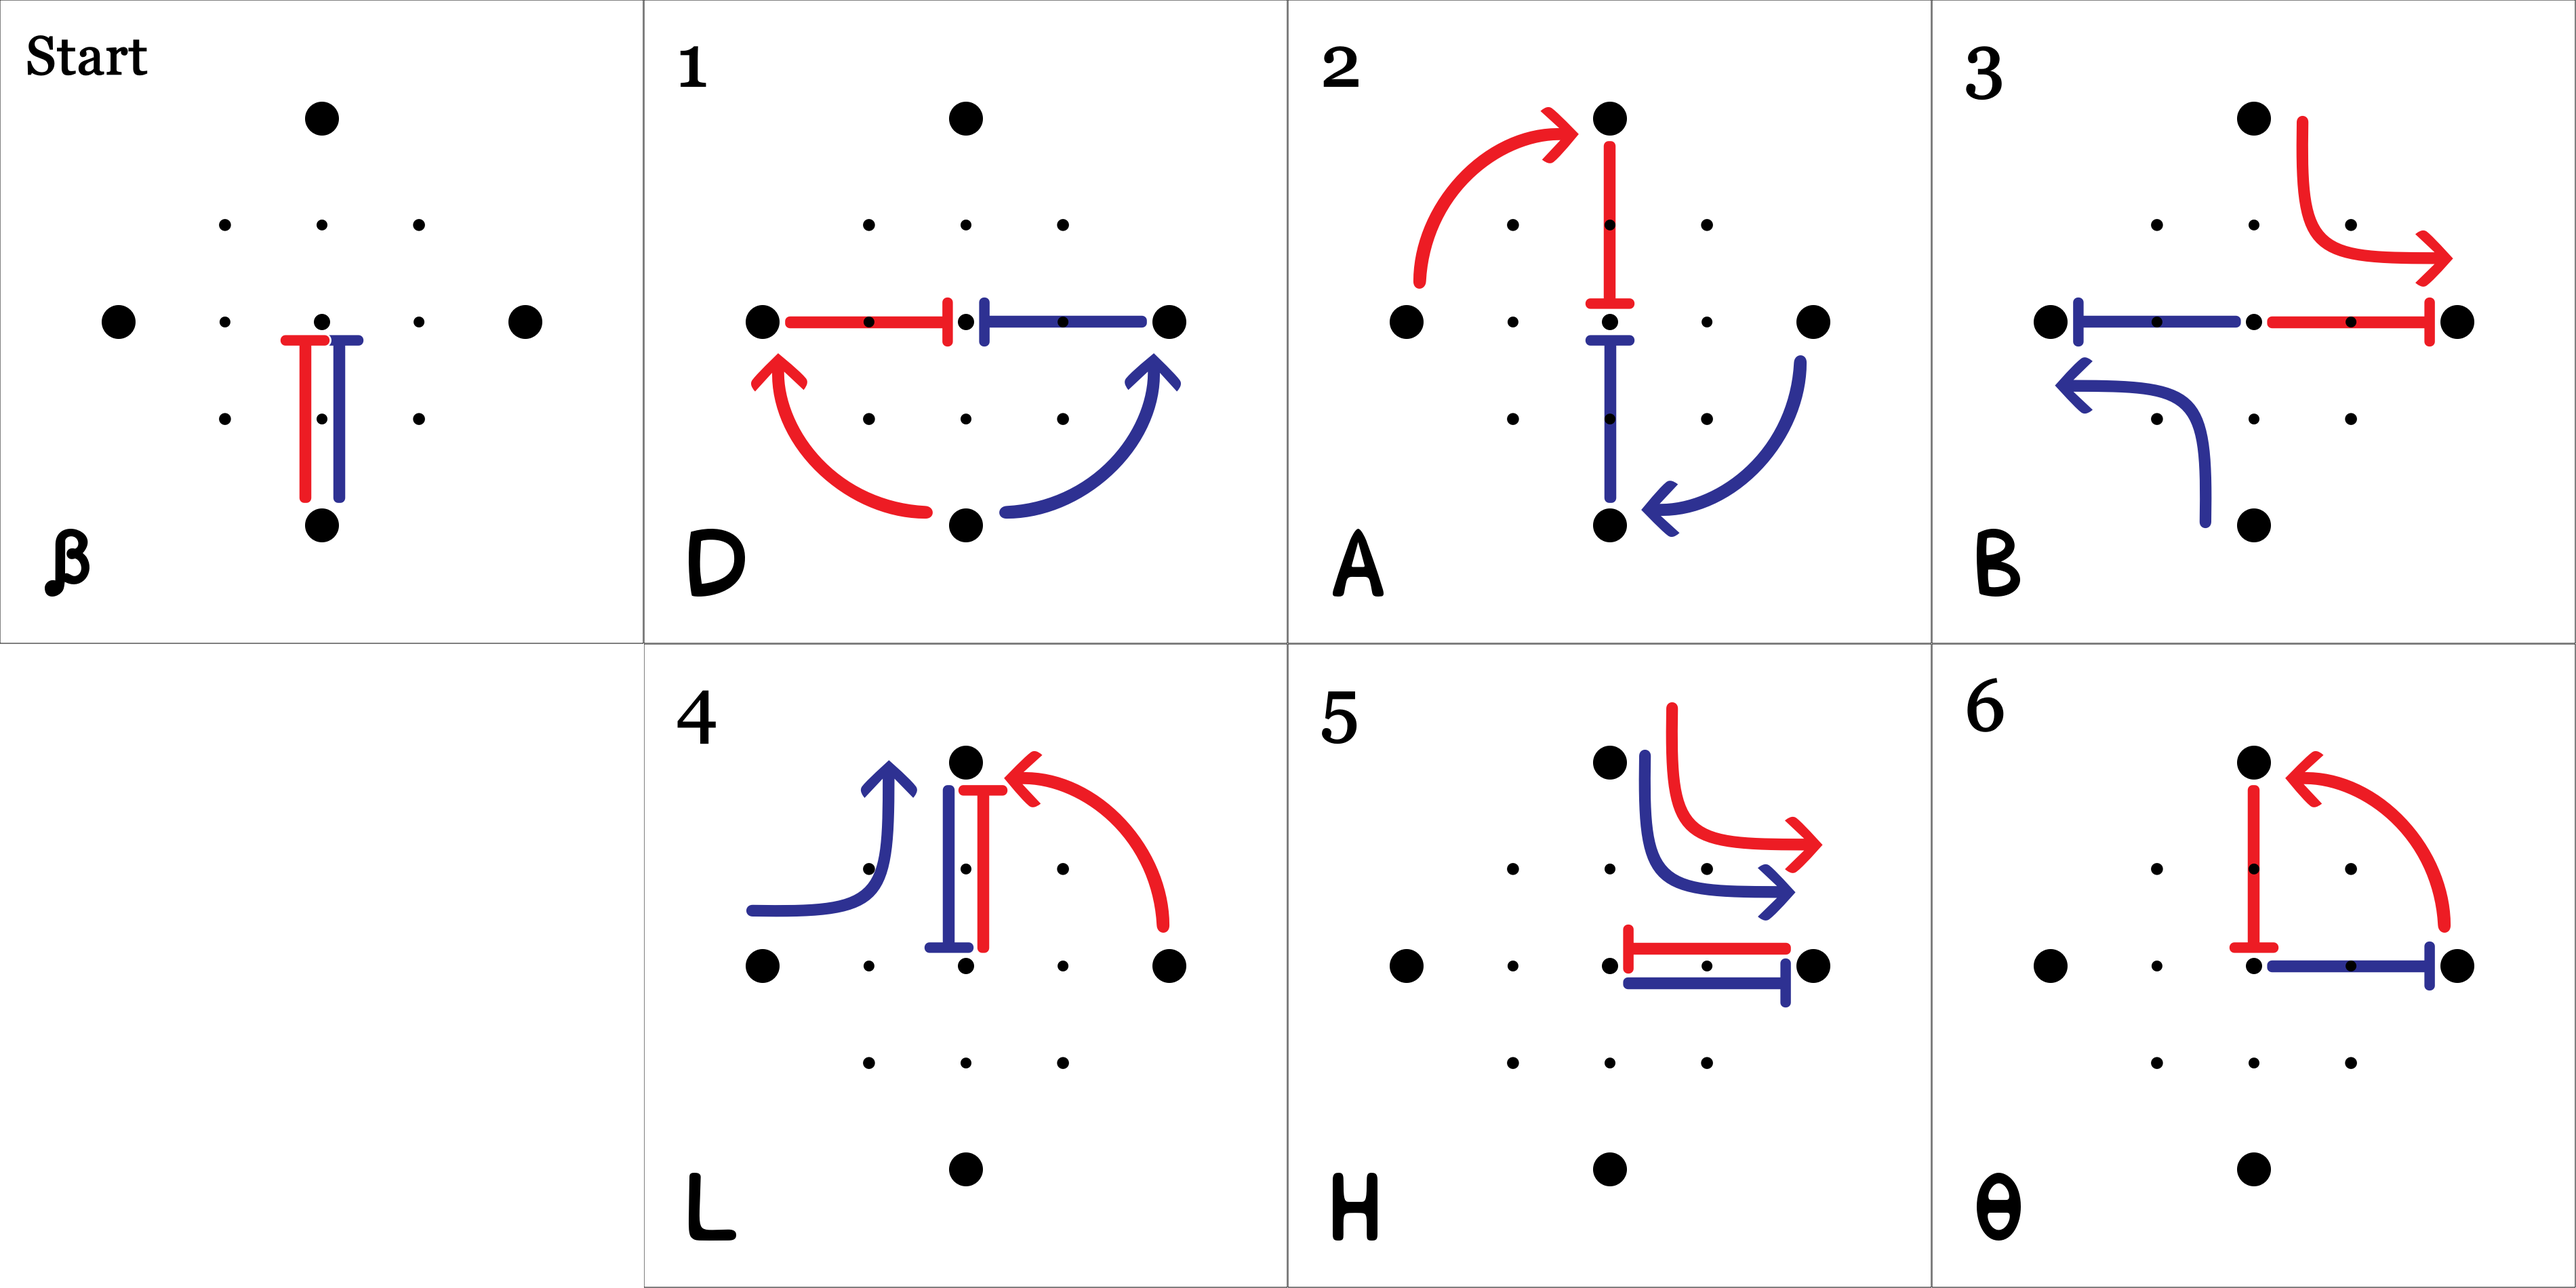
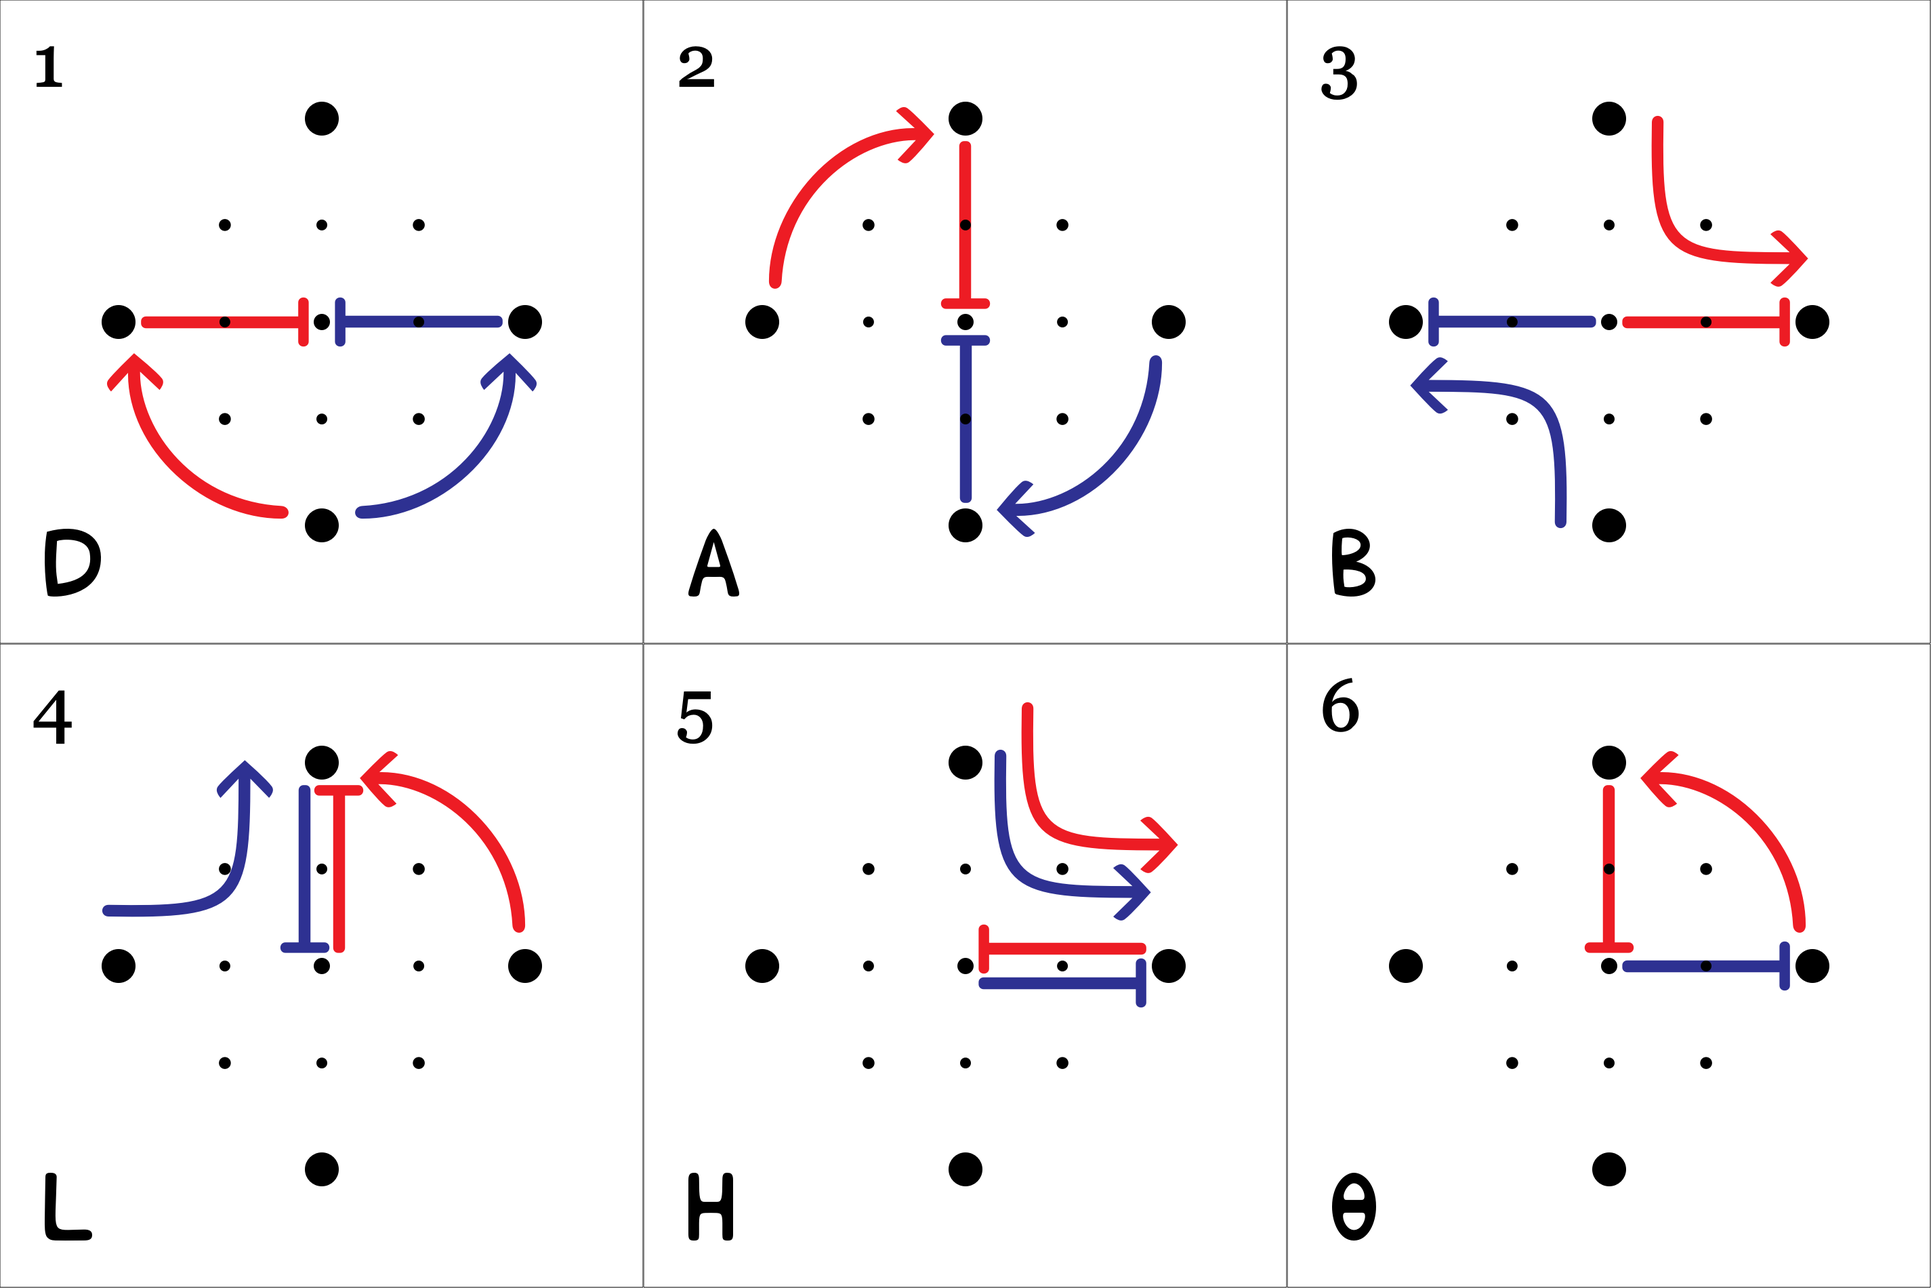
Refactor image export layout manager to fix thumbnail box size and variation number label

diff --git a/widgets/dictionary_widget/thumbnail_box/thumbnail_image_label.py b/widgets/dictionary_widget/thumbnail_box/thumbnail_image_label.py
@@ -21,33 +21,24 @@ class ThumbnailImageLabel(QLabel):
         self.browser = thumbnail_box.browser
         self.is_selected = False
 
+        self.setScaledContents(False)  # Ensure the image scales with label size
         self.update_thumbnail()
 
     def update_thumbnail(self):
         if self.thumbnails and 0 <= self.current_index < len(self.thumbnails):
             pixmap = QPixmap(self.thumbnails[self.current_index])
-            self.setPixmap(
-                pixmap.scaled(
-                    self.size(),
-                    Qt.AspectRatioMode.KeepAspectRatio,
-                    Qt.TransformationMode.SmoothTransformation,
-                )
-            )
-            # QApplication.processEvents()
+            self.set_pixmap_to_fit(pixmap)
         else:
             self.setText("No image available")
 
-    def eventFilter(self, obj, event: QEvent):
-        if obj == self and event.type() == QEvent.Type.Enter:
-            self.setCursor(QCursor(Qt.CursorShape.PointingHandCursor))
-            self.setStyleSheet("border: 3px solid gold;")
-        elif obj == self and event.type() == QEvent.Type.Leave:
-            self.setStyleSheet(
-                "border: 3px solid black;"
-                if not self.is_selected
-                else "border: 3px solid blue;"
-            )
-        return super().eventFilter(obj, event)
+    def set_pixmap_to_fit(self, pixmap: QPixmap):
+        # Scale pixmap to fit within the current label dimensions
+        scaled_pixmap = pixmap.scaled(
+            self.size(),
+            Qt.AspectRatioMode.KeepAspectRatio,
+            Qt.TransformationMode.SmoothTransformation,
+        )
+        self.setPixmap(scaled_pixmap)
 
     def thumbnail_clicked(self, event):
         metadata = self.metadata_extractor.extract_metadata_from_file(
@@ -60,7 +51,7 @@ class ThumbnailImageLabel(QLabel):
             self.thumbnails,
             self.current_index,
         )
-        
+
     def set_selected(self, selected: bool):
         self.is_selected = selected
         if selected:
@@ -73,3 +64,15 @@ class ThumbnailImageLabel(QLabel):
         self.update()
         QApplication.processEvents()
         self.update_thumbnail()
+
+    def eventFilter(self, obj, event: QEvent):
+        if obj == self and event.type() == QEvent.Type.Enter:
+            self.setCursor(QCursor(Qt.CursorShape.PointingHandCursor))
+            self.setStyleSheet("border: 3px solid gold;")
+        elif obj == self and event.type() == QEvent.Type.Leave:
+            self.setStyleSheet(
+                "border: 3px solid black;"
+                if not self.is_selected
+                else "border: 3px solid blue;"
+            )
+        return super().eventFilter(obj, event)

diff --git a/widgets/dictionary_widget/dictionary_browser/browser_scroll_widget.py b/widgets/dictionary_widget/dictionary_browser/browser_scroll_widget.py
@@ -119,22 +119,24 @@ class DictionaryBrowserScrollWidget(QWidget):
 
     def add_new_thumbnail_box(self, new_word, thumbnails):
         # Find the right position based on alphabetical order
-        index = next(
-            (
-                i
-                for i, box in enumerate(self.thumbnail_boxes)
-                if box.base_word.lower() > new_word.lower()
-            ),
-            len(self.thumbnail_boxes),
-        )
-
-        # Create new ThumbnailBox
+        index = self.find_insert_index(new_word)
         thumbnail_box = ThumbnailBox(self.browser, new_word, thumbnails)
         row, col = divmod(index, 3)
         self.grid_layout.addWidget(thumbnail_box, row, col)
         self.thumbnail_boxes.insert(index, thumbnail_box)
+        self.update_thumbnail_sizes()
+        thumbnail_box.image_label.update_thumbnail()
 
-        for i in range(index + 1, len(self.thumbnail_boxes)):
-            row, col = divmod(i, 3)
-            self.grid_layout.addWidget(self.thumbnail_boxes[i], row, col)
-            self.thumbnail_boxes[i].resize_thumbnail_box()
+    def update_thumbnail_sizes(self):
+        for box in self.thumbnail_boxes:
+            box.resize_thumbnail_box()
+
+    def find_insert_index(self, new_word):
+        for i, box in enumerate(self.thumbnail_boxes):
+            if box.base_word.lower() > new_word.lower():
+                return i
+        return len(self.thumbnail_boxes)
+
+    def update_all_thumbnails(self):
+        for thumbnail_box in self.thumbnail_boxes_dict.values():
+            thumbnail_box.image_label.update_thumbnail()

diff --git a/widgets/dictionary_widget/thumbnail_box/thumbnail_box.py b/widgets/dictionary_widget/thumbnail_box/thumbnail_box.py
@@ -1,10 +1,11 @@
-
 from typing import TYPE_CHECKING
 from PyQt6.QtCore import Qt
 from PyQt6.QtGui import QShowEvent, QResizeEvent
 from PyQt6.QtWidgets import QVBoxLayout, QWidget
 from widgets.dictionary_widget.thumbnail_box.metadata_extractor import MetaDataExtractor
-from widgets.dictionary_widget.thumbnail_box.thumbnail_box_nav_btns import ThumbnailBoxNavButtonsWidget
+from widgets.dictionary_widget.thumbnail_box.thumbnail_box_nav_btns import (
+    ThumbnailBoxNavButtonsWidget,
+)
 from .base_word_label import BaseWordLabel
 from .thumbnail_image_label import ThumbnailImageLabel
 from .variation_number_label import VariationNumberLabel
@@ -20,7 +21,7 @@ class ThumbnailBox(QWidget):
         super().__init__(browser)
 
         self.base_word = base_word
-        self.thumbnails:list[str] = thumbnails
+        self.thumbnails: list[str] = thumbnails
         self.browser = browser
         self.main_widget = browser.dictionary_widget.main_widget
         self.initial_size_set = False
@@ -58,10 +59,7 @@ class ThumbnailBox(QWidget):
         parent_width = self.browser.width() - scrollbar_width
 
         width = parent_width // 3
-        self.setMinimumWidth(width)
-        self.setMaximumWidth(width)
-        
-        self.image_label.update_thumbnail()
+        self.setFixedWidth(width)
 
     def update_thumbnails(self, thumbnails):
         self.thumbnails = thumbnails

diff --git a/widgets/dictionary_widget/thumbnail_box/thumbnail_box_nav_btns.py b/widgets/dictionary_widget/thumbnail_box/thumbnail_box_nav_btns.py
@@ -1,6 +1,6 @@
 from typing import TYPE_CHECKING
 from PyQt6.QtGui import QFont
-from PyQt6.QtWidgets import QPushButton, QWidget, QHBoxLayout
+from PyQt6.QtWidgets import QPushButton, QWidget, QHBoxLayout,  QApplication
 from PyQt6.QtCore import Qt
 
 if TYPE_CHECKING:
@@ -46,6 +46,7 @@ class ThumbnailBoxNavButtonsWidget(QWidget):
                 f"Variation {self.current_index + 1}"
             )
             preview_area.current_index = self.current_index
+            QApplication.processEvents()
             preview_area.update_preview(self.current_index)
 
     def update_thumbnail(self):

diff --git a/thumbnail_generator.py b/thumbnail_generator.py
@@ -21,7 +21,9 @@ class ThumbnailGenerator:
     def generate_and_save_thumbnail(
         self, sequence, turn_pattern, structural_variation_number, directory
     ):
-        beat_frame_image = self.export_manager.create_sequence_image(sequence)
+        beat_frame_image = self.export_manager.create_sequence_image(
+            sequence, include_start_pos=False
+        )
         pil_image = self.qimage_to_pil(beat_frame_image)
         metadata = json.dumps(sequence)
         info = self._create_png_info(metadata)

diff --git a/widgets/graph_editor/components/GE_start_pos_ori_picker_widget.py b/widgets/graph_editor/components/GE_start_pos_ori_picker_widget.py
@@ -106,6 +106,8 @@ class GE_StartPosOriPickerWidget(QWidget):
         button.setIcon(QIcon(icon_path))
         button.clicked.connect(click_function)
         button.setFixedSize(40, 40)
+        # make the cursor a pointing hand when hovering over the button
+        button.setCursor(Qt.CursorShape.PointingHandCursor)
         return button
 
     def set_orientation(self, orientation):

diff --git a/widgets/dictionary_widget/dictionary_browser/dictionary_browser.py b/widgets/dictionary_widget/dictionary_browser/dictionary_browser.py
@@ -33,3 +33,9 @@ class DictionaryBrowser(QWidget):
 
     def resize_dictionary_browser(self):
         self.scroll_widget.resize_dictionary_browser_scroll_widget()
+
+
+    def showEvent(self, event):
+        super().showEvent(event)
+        # Update all thumbnail images when the widget is shown
+        self.scroll_widget.update_all_thumbnails()
